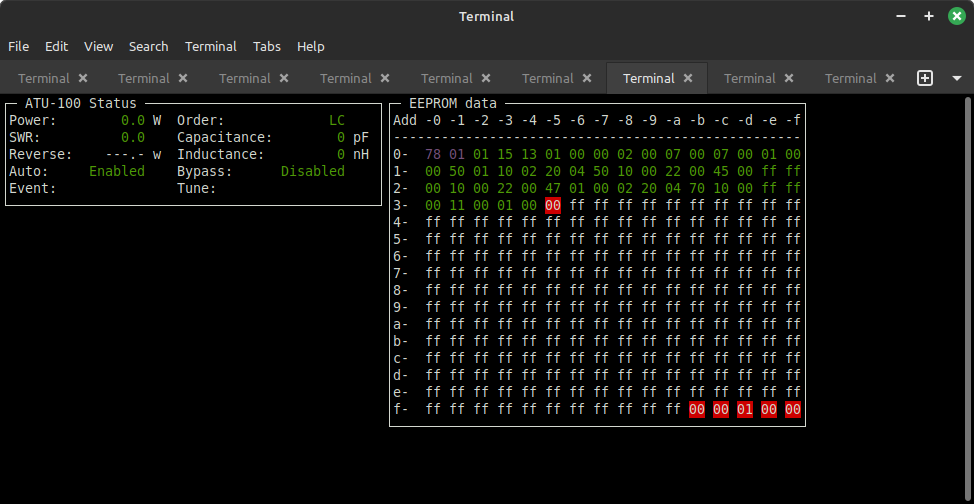
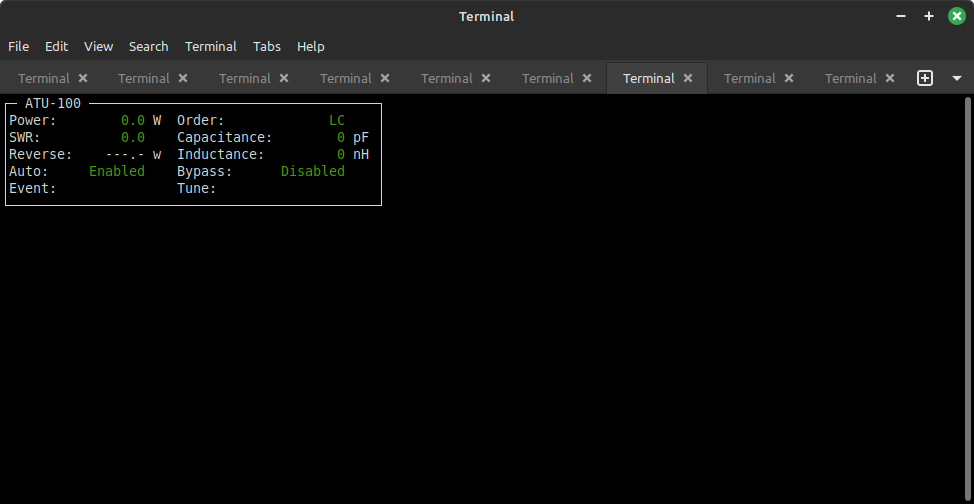
Added configuration display window

diff --git a/python/atu100diagnostics.py b/python/atu100diagnostics.py
@@ -100,9 +100,16 @@ TUNE_C      = SDATA_SECOND
 EEPROM_WIN_WIDTH  = 53
 EEPROM_WIN_HEIGHT = 20
 EEPROM_WIN_DOWN   =  0
-EEPROM_WIN_ACROSS =  STAT_WIN_WIDTH
+EEPROM_WIN_ACROSS = STAT_WIN_WIDTH
 
+# Config window
 
+CONFIG_WIN_WIDTH  = STAT_WIN_WIDTH
+CONFIG_WIN_HEIGHT = EEPROM_WIN_HEIGHT - STAT_WIN_HEIGHT
+CONFIG_WIN_DOWN   = STAT_WIN_HEIGHT
+CONFIG_WIN_ACROSS = 0
+CONFIG_FIRST      = 1
+CONFIG_SECOND     = 24
 
 class atu100diag(object):
     def __init__(self):
@@ -211,11 +218,18 @@ class atu100diag(object):
         for line in range(16):
            self.ewin.addstr(3 + line, 1, f'{line:x}-  -- -- -- -- -- -- -- -- -- -- -- -- -- -- -- --')
 
+        # Config window
+
+        self.cwin = curses.newwin(CONFIG_WIN_HEIGHT, CONFIG_WIN_WIDTH, CONFIG_WIN_DOWN, CONFIG_WIN_ACROSS)
+        self.cwin.border()
+        self.cwin.addstr(0, 2, ' Configuration ')
+
         # Final screen set up
 
         self.mwin.noutrefresh()
         self.swin.noutrefresh()
         self.ewin.noutrefresh()
+        self.cwin.noutrefresh()
         curses.doupdate()
 
 
@@ -385,174 +399,229 @@ class atu100diag(object):
         return tens * 10 + units
 
 
-    def show_settings(self):
+    def show_configuration(self):
+        row = 3
         address = cell.EEPROM_TIMEOUT_TIME
         value = self.atu.eeprom[address]
         bcd = self.get_bcd(value)
-        logging.info(f'{address:02x}[{value:02x}]: Timeout {bcd} mS')
+        valstr = f'{address:02x}: Timeout {bcd} mS'
+        logging.info(valstr)
+        self.cwin.addstr(row, CONFIG_FIRST, valstr)
 
         address = cell.EEPROM_SWR_THRESHOLD
         value = self.atu.eeprom[address]
         dec = value // 16
         frac = value & 0xf
-        logging.info(f'{address:02x}[{value:02x}]: Auto SWR threshold {dec}.{frac}')
+        valstr = f'{address:02x}: Auto SWR thres {dec}.{frac}'
+        logging.info(valstr)
+        self.cwin.addstr(row, CONFIG_SECOND, valstr)
 
         address = cell.EEPROM_MIN_POWER
         value = self.atu.eeprom[address]
         bcd = self.get_bcd(value)
         if self.atu.eeprom[cell.EEPROM_POWER_MEASURE_LEVEL] == 1:
             bcd *= 10
-        logging.info(f'{address:02x}[{value:02x}]: Minimum power {bcd} W')
+        valstr = f'{address:02x}: Minimum power {bcd} W'
+        logging.info(valstr)
+        row += 1
+        self.cwin.addstr(row, CONFIG_FIRST, valstr)
 
         address = cell.EEPROM_MAX_POWER
         value = self.atu.eeprom[address]
         if value == 0:
-            logging.info(f'{address:02x}[{value:02x}]: No maximum power')
+            valstr = f'{address:02x}: No maximum power'
         else:
             bcd = self.get_bcd(value)
             if self.atu.eeprom[cell.EEPROM_POWER_MEASURE_LEVEL] == 1:
                 bcd *= 10
-            logging.info(f'{address:02x}[{value:02x}]: Maximum power {bcd} W')
+            valstr = f'{address:02x}: Max power {bcd} W'
+        logging.info(valstr)
+        self.cwin.addstr(row, CONFIG_SECOND, valstr)
 
         address = cell.EEPROM_MAX_INIT_SWR
         value = self.atu.eeprom[address]
         if value == 0:
-            logging.info(f'{address:02x}[{value:02x}]: No maximum initial SWR')
+            valstr = f'{address:02x}: No max initial SWR'
         else:
             dec = value // 16
             frac = value & 0xf
-            logging.info(f'{address:02x}[{value:02x}]: Maximum initial SWR {dec}.{frac}')
+            valstr = f'{address:02x}: Max init SWR {dec}.{frac}'
+        logging.info(valstr)
+        row += 1
+        self.cwin.addstr(row, CONFIG_FIRST, valstr)
 
         address = cell.EEPROM_NUMBER_INDS
         value = self.atu.eeprom[address]
         if (value < 5) or (value > 7):
             num_inductors = 0
-            logging.info(f'{address:02x}[{value:02x}]: Number of inductors invalid')
+            logging.warning(f'{address:02x}: Number of inductors invalid')
         else:
             num_inductors = value
-            logging.info(f'{address:02x}[{value:02x}]: Number of inductors {value}')
+            logging.info(f'{address:02x}: Number of inductors {value}')
 
         address = cell.EEPROM_IND_LINEAR_PITCH
         value = self.atu.eeprom[address]
+        linear_inds = False
         if value == 0:
-            logging.info(f'{address:02x}[{value:02x}]: Inductors not linear pitch')
+            logging.info(f'{address:02x}: Inductors not linear pitch')
         elif value == 1:
+            linear_inds = True
             num_inductors = 0
-            logging.info(f'{address:02x}[{value:02x}]: Inductors linear pitch')
+            logging.info(f'{address:02x}: Inductors linear pitch')
         else:
             num_inductors = 0
-            logging.info(f'{address:02x}[{value:02x}]: Inductors pitch invalid')
+            logging.warning(f'{address:02x}: Inductors pitch invalid')
 
         address = cell.EEPROM_NUMBER_CAPS
         value = self.atu.eeprom[address]
         if (value < 5) or (value > 7):
             num_capacitors = 0
-            logging.info(f'{address:02x}[{value:02x}]: Number of capacitors invalid')
+            logging.warning(f'{address:02x}: Number of capacitors invalid')
         else:
             num_capacitors = value
-            logging.info(f'{address:02x}[{value:02x}]: Number of capacitors {value}')
+            logging.info(f'{address:02x}: Number of capacitors {value}')
 
         address = cell.EEPROM_CAP_LINEAR_PITCH
         value = self.atu.eeprom[address]
+        linear_caps = False
         if value == 0:
-            logging.info(f'{address:02x}[{value:02x}]: Capacitors not linear pitch')
+            logging.info(f'{address:02x}: Capacitors not linear pitch')
         elif value == 1:
+            linear_caps = True
             num_capacitors = 0
-            logging.info(f'{address:02x}[{value:02x}]: Capacitors linear pitch')
+            logging.info(f'{address:02x}: Capacitors linear pitch')
         else:
             num_capacitors = 0
-            logging.info(f'{address:02x}[{value:02x}]: Capacitors pitch invalid')
+            logging.warning(f'{address:02x}: Capacitors pitch invalid')
 
         address = cell.EEPROM_ENABLE_NONLINEAR_DIODE
         value = self.atu.eeprom[address]
         if value == 0:
-            logging.info(f'{address:02x}[{value:02x}]: No linearity correction')
+            valstr = f'{address:02x}: No linear correct'
         elif value == 1:
-            logging.info(f'{address:02x}[{value:02x}]: Linearity correction')
+            valstr = f'{address:02x}: Linearity correct'
         else:
-            logging.info(f'{address:02x}[{value:02x}]: Invalid linearity correction')
+            valstr = f'{address:02x}: Invalid linear cor'
+        logging.info(valstr)
+        self.cwin.addstr(row, CONFIG_SECOND, valstr)
 
         address = cell.EEPROM_INVERSE_INDUCTANCE_RELAY
         value = self.atu.eeprom[address]
         if value == 0:
-            logging.info(f'{address:02x}[{value:02x}]: Normal inductor relays')
+            valstr = f'{address:02x}: Normal ind relays'
         elif value == 1:
-            logging.info(f'{address:02x}[{value:02x}]: Inverse inductor relays')
+            valstr = f'{address:02x}: Inverse ind relays'
         else:
-            logging.info(f'{address:02x}[{value:02x}]: Invalid inductor relays')
+            valstr = f'{address:02x}: Invalid ind relays'
+        logging.info(valstr)
+        row += 1
+        self.cwin.addstr(row, CONFIG_FIRST, valstr)
 
         if num_inductors > 0:
-            valstr = ''
+            valstr = 'Inds (nH): '
             for relay in range(num_inductors):
                 if relay != 0:
-                    valstr += ', '
+                    valstr += ' '
                 value = self.get_bcd(self.atu.eeprom[cell.EEPROM_INDUCTOR_FIRST + relay * 2]) * 100
                 value += self.get_bcd(self.atu.eeprom[cell.EEPROM_INDUCTOR_FIRST + relay * 2 + 1])
-                valstr += f'{value} nH'
-            logging.info(f'Inductors:  {valstr}')
+                valstr += f'{value:>4}'
+            logging.info(valstr)
+        elif linear_inds:
+            valstr = 'Linear spacing of inductors'
+        else:
+            valstr = 'Invalid number of inductors'
+        self.cwin.addstr(1, 1, valstr)
 
         if num_capacitors > 0:
-            valstr = ''
+            valstr = 'Caps (pf): '
             for relay in range(num_capacitors):
                 if relay != 0:
-                    valstr += ', '
+                    valstr += ' '
                 value = self.get_bcd(self.atu.eeprom[cell.EEPROM_CAPACITOR_FIRST + relay * 2]) * 100
                 value += self.get_bcd(self.atu.eeprom[cell.EEPROM_CAPACITOR_FIRST + relay * 2 + 1])
-                valstr += f'{value} pF'
-            logging.info(f'Capacitors: {valstr}')
+                valstr += f'{value:>4}'
+            logging.info(valstr)
+        elif linear_caps:
+            valstr = 'Linear spacing of capacitors'
+        else:
+            valstr = 'Invalid number of capacitors'
+        self.cwin.addstr(2, 1, valstr)
 
         address = cell.EEPROM_POWER_MEASURE_LEVEL
         value = self.atu.eeprom[address]
         if value == 0:
-            logging.info(f'{address:02x}[{value:02x}]: Measure to 999 W')
+            valstr = f'{address:02x}: Measure to 999 W'
         elif value == 1:
-            logging.info(f'{address:02x}[{value:02x}]: Measure to 9999 W')
+            valstr = f'{address:02x}: Measure to 9999 W'
         else:
-            logging.info(f'{address:02x}[{value:02x}]: Invalid measurement range')
+            valstr = f'{address:02x}: Invalid range'
+        logging.info(valstr)
+        self.cwin.addstr(row, CONFIG_SECOND, valstr)
 
         address = cell.EEPROM_TANDEM_MATCH
         value = self.atu.eeprom[address]
         bcd = self.get_bcd(value)
-        logging.info(f'{address:02x}[{value:02x}]: Tandum match ratio 1:{bcd}')
+        valstr = f'{address:02x}: Tandum match 1:{bcd}'
+        logging.info(valstr)
+        row += 1
+        self.cwin.addstr(row, CONFIG_FIRST, valstr)
 
         address = cell.EEPROM_ADDITIONAL_INDICATION
         value = self.atu.eeprom[address]
         if value == 0:
-            logging.info(f'{address:02x}[{value:02x}]: LC indication only')
+            valstr = f'{address:02x}: LC indication only'
         elif value == 1:
-            logging.info(f'{address:02x}[{value:02x}]: Efficeny indication')
+            valstr = f'{address:02x}: Efficeny indication'
         else:
-            logging.info(f'{address:02x}[{value:02x}]: Invalid indication setting')
+            valstr = f'{address:02x}: Invalid indication'
+        logging.info(valstr)
+        self.cwin.addstr(row, CONFIG_SECOND, valstr)
 
         address = cell.EEPROM_FEEDER_LOSS
         value = self.atu.eeprom[address]
         if value == 0:
-            logging.info(f'{address:02x}[{value:02x}]: Feeder loss ignored')
+            logging.info(f'{address:02x}: Feeder loss ignored')
         else:
             dec = value // 16
             frac = value & 0xf
-            logging.info(f'{address:02x}[{value:02x}]: Feeder power loss ratio 1:{dec}.{frac}')
+            logging.info(f'{address:02x}: Feeder power loss ratio 1:{dec}.{frac}')
 
         address = cell.EEPROM_DISABLE_RELAYS
         value = self.atu.eeprom[address]
-        logging.info(f'{address:02x}[{value:02x}]: Disable relays {value}')
+        valstr = f'{address:02x}: Disable relays {value}'
+        logging.info(valstr)
+        row += 1
+        self.cwin.addstr(row, CONFIG_FIRST, valstr)
 
         address = cell.EEPROM_LAST_SWR_L
         valuelow = self.atu.eeprom[address]
         valuehi = self.atu.eeprom[address+1]
-        logging.info(f'{address:02x}-{address+1:02x}[{valuelow:02x}:{valuehi:02x}]: Last SWR {valuehi}:{valuelow}')
+        valstr = f'{address:02x}: Last SWR {valuehi}:{valuelow}'
+        row += 2
+        self.cwin.addstr(row, CONFIG_FIRST, valstr)
 
         address = cell.EEPROM_LAST_SW
         value = self.atu.eeprom[address]
-        logging.info(f'{address:02x}[{value:02x}]: Last SW {value}')
+        valstr = f'{address:02x}: Last SW {value}'
+        logging.info(valstr)
+        self.cwin.addstr(row, CONFIG_SECOND, valstr)
 
         address = cell.EEPROM_LAST_IND
         value = self.atu.eeprom[address]
-        logging.info(f'{address:02x}[{value:02x}]: Last inductor  {value}')
+        valstr = f'{address:02x}: Last inductor  {value}'
+        logging.info(valstr)
+        row += 1
+        self.cwin.addstr(row, CONFIG_FIRST, valstr)
 
         address = cell.EEPROM_LAST_CAP
         value = self.atu.eeprom[address]
-        logging.info(f'{address:02x}[{value:02x}]: Last capacitor {value}')
+        valstr = f'{address:02x}: Last capacitor {value}'
+        logging.info(valstr)
+        self.cwin.addstr(row, CONFIG_SECOND, valstr)
+
+        self.cwin.noutrefresh()
+        self.mwin.noutrefresh()
+        curses.doupdate()
 
 
 
@@ -561,7 +630,7 @@ class atu100diag(object):
             address = int(name, 16)
             self.atu.eeprom[address] = int(rxmsg[name], 16)
         self.show_eeprom()
-        self.show_settings()
+        self.show_configuration()
         self.process_state = ProcessState.PS_GOT_EEPROM
 
 
@@ -670,12 +739,20 @@ class atu100diag(object):
 
                 case ProcessState.PS_NEED_EEPROM:
                     self.atu.sendstr('Dump', 'EEPROM')
+                    self.ewin.border()
+                    self.ewin.addstr(0, 2, ' EEPROM data - Fetching ')
+                    self.ewin.noutrefresh()
+                    curses.doupdate()
                     self.process_state = ProcessState.PS_WAIT_EEPROM
 
                 case ProcessState.PS_WAIT_EEPROM:
                     pass
 
                 case ProcessState.PS_GOT_EEPROM:
+                    self.ewin.border()
+                    self.ewin.addstr(0, 2, ' EEPROM data ')
+                    self.ewin.noutrefresh()
+                    curses.doupdate()
                     self.process_state = ProcessState.PS_IDLE
 
         # Clean up and exit